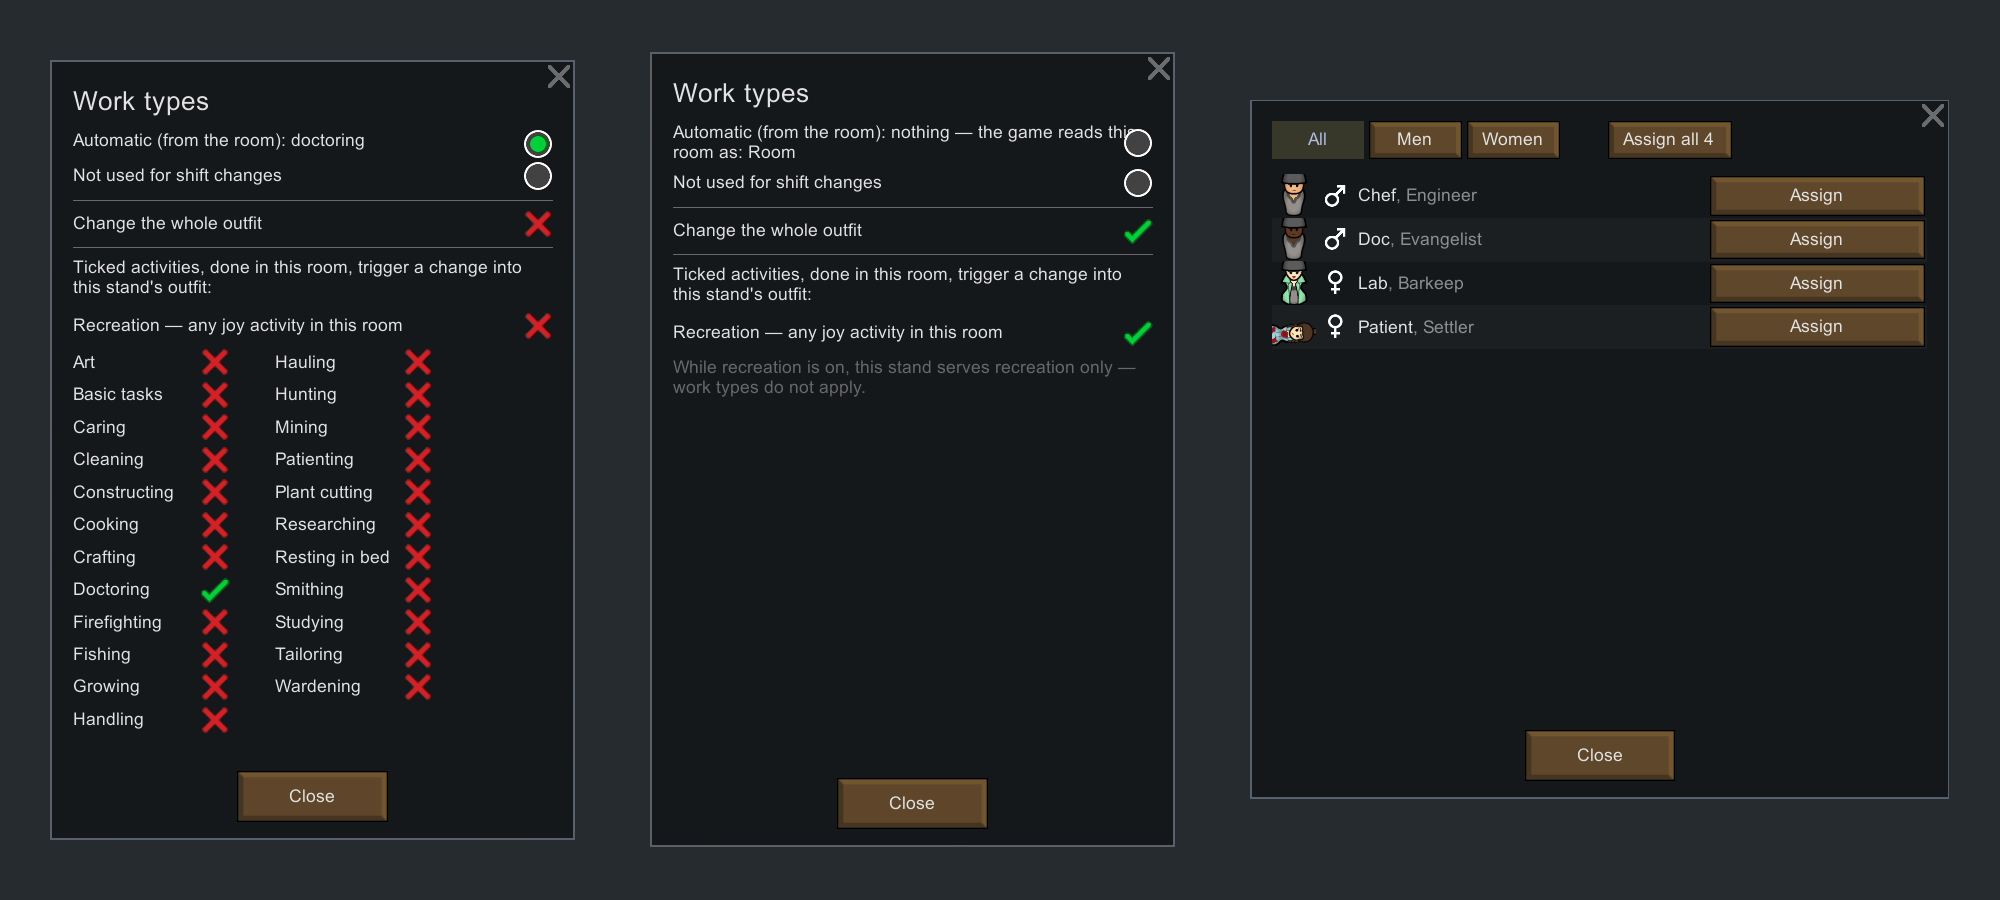
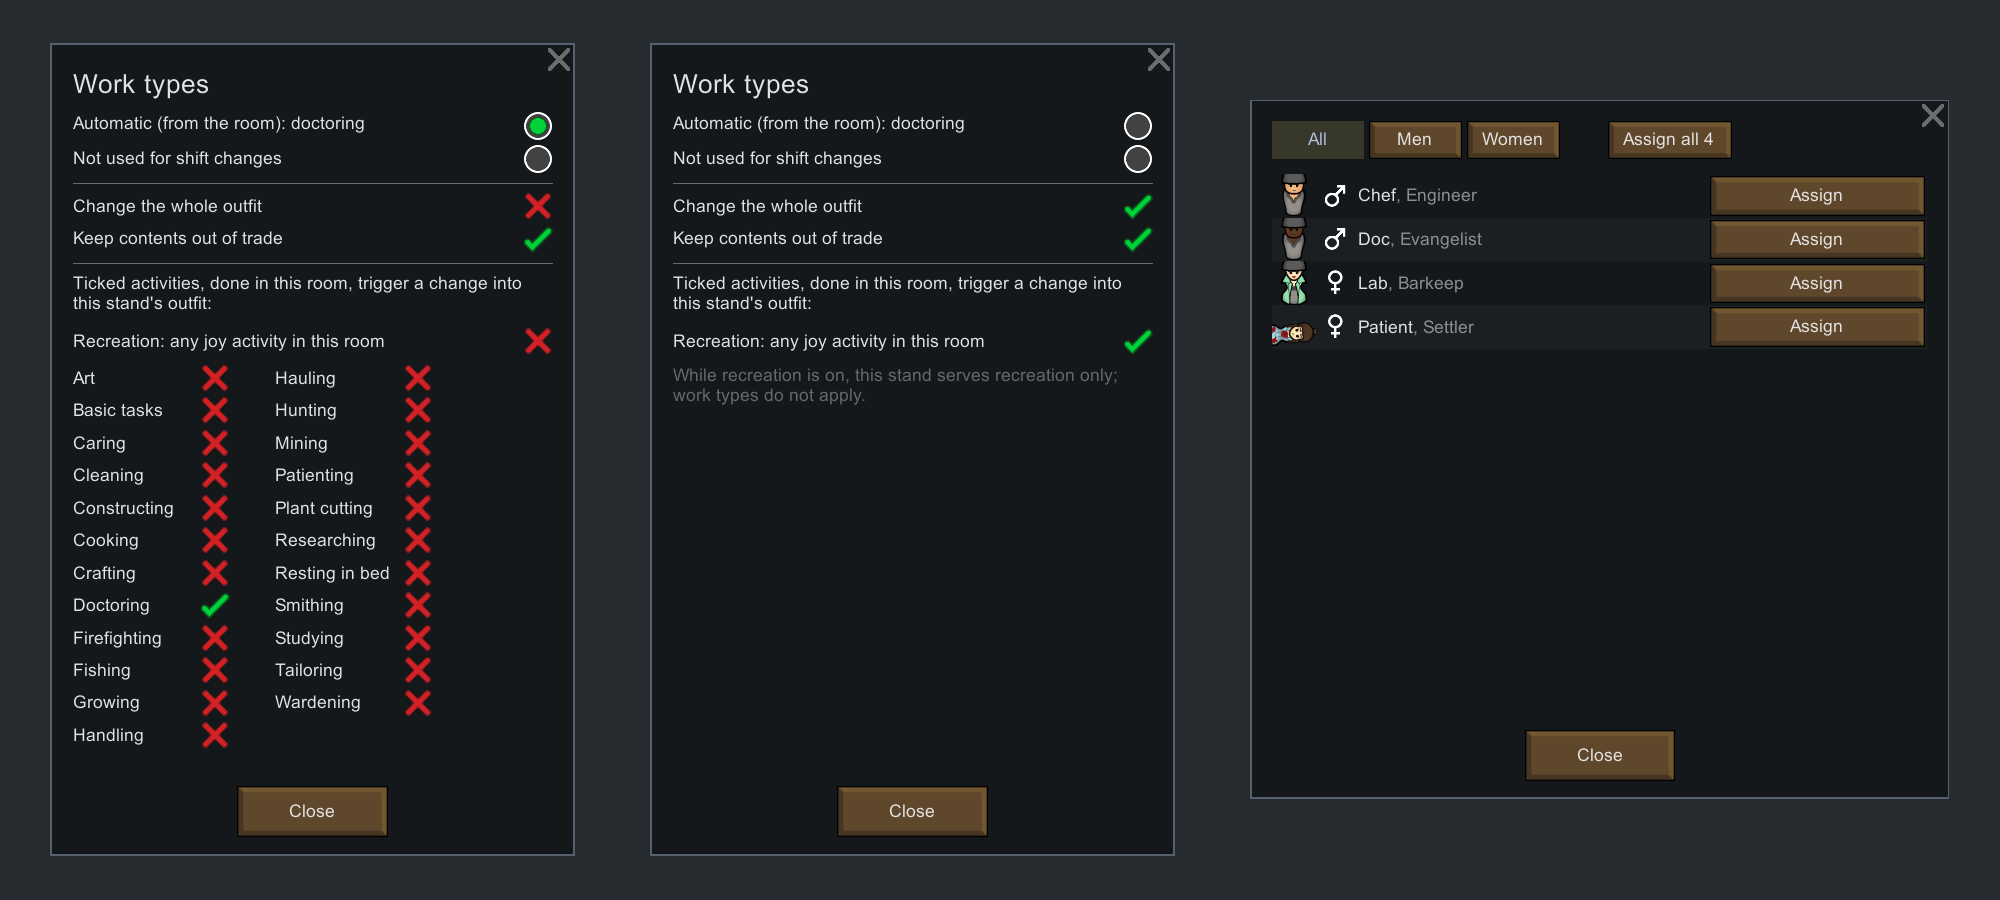
📝 Document the trade switch and re-shoot the controls card
Four surfaces carry the per-stand controls -- README, About.xml, the Steam BBCode and the keyed strings -- and all of them said "three". DESIGN gains the engine story beside the optimizer pause, and the allowRemovingItems table row now says what it does not reach. TESTING records the gap: no case builds a TradeDeal, so the postfix is verified in play only.

card-controls is re-shot for the new row. Both work-types panels crop to 525x813 now, and their being the SAME height is the correct result rather than a coincidence -- FitToMode sizes from InitialSize.y, which branches on ModeOnly and not on recreation. The previous take had them at 780 and 795, so that old recreation crop was 15 px loose. Width cross-checks the crop between panels; height never did.

The owner panel was not re-captured. Its dialog did not change, and the old card was composited at native resolution, so it was recovered from it at 699x699+1250+100 -- pixel-identical, not a re-encode of something scaled.

diff --git a/docs/DESIGN.md b/docs/DESIGN.md
@@ -178,7 +178,7 @@ order, which follows patch order, decides nothing.
 | Vanilla provides | Detail |
 |---|---|
 | Apparel storage with filters | storage-group support, contents displayed on the stand model |
-| `allowRemovingItems`, default false | one flag driving both `IHaulSource.HaulSourceEnabled` and `IApparelSource.ApparelSourceEnabled` (`:102-104`). This default is what stops haulers carting uniforms to stockpiles and stops `JobGiver_OptimizeApparel` raiding the stand |
+| `allowRemovingItems`, default false | one flag driving both `IHaulSource.HaulSourceEnabled` and `IApparelSource.ApparelSourceEnabled` (`:102-104`). This default is what stops haulers carting uniforms to stockpiles and stops `JobGiver_OptimizeApparel` raiding the stand. It does not reach traders — see [Withholding from trade](#withholding-from-trade) |
 | One outfit of capacity, structurally | `HasRoomForApparelOfDef` (`:332-342`) is not a count limit but a conflict check, refusing anything that cannot be worn together with what is already there |
 | Eviction | `TryDropThingsToMakeRoomForThingOfDef` (`:344-364`) drops conflicting contents on the floor nearby |
 
@@ -335,6 +335,61 @@ pre-pause sessions resume after load and the driver dyes whatever its queue name
 wherever it sits. Its `TryMakePreToilReservations` is failed — the vanilla-routine
 way to cancel — when the pawn is on shift or any queued garment is parked in a
 stand.
+
+## Withholding from trade
+
+Vanilla lists a stand's contents to traders by two routes, and neither is gated
+by anything a player would recognise as a lock.
+
+| Trader | Route |
+|---|---|
+| Orbital ship | `TradeUtility.AllLaunchableThingsForTrade` special-cases `Building_OutfitStand` and yields its `HeldItems` (`TradeUtility.cs:123`) |
+| Visiting caravan | `Pawn_TraderTracker.ColonyThingsWillingToBuy` walks `AllColonistBuildingsOfType<IHaulSource>()` and yields everything each one directly holds (`Pawn_TraderTracker.cs:123-134`) |
+
+`TradeDeal.InSellablePosition` then whitelists `ParentHolder is
+Building_OutfitStand`, so the unspawned held items sail through the position
+check (`TradeDeal.cs:85`). What ends up on the trader's list is the uniform in
+active rotation and, if anyone is on shift, their own clothes parked beside it.
+
+**`allowRemovingItems` is not in this story at all**, which is worth saying out
+loud, because the section above spends a page on that flag. The caravan lister
+keys on **type**: a stand whose `HaulSourceEnabled` is false is enumerated
+anyway, and `Patch_AllowRemovingToggle`'s enforcement — which does hold the
+optimizer off — buys nothing here. A player who read the removal toggle's
+tooltip, saw "the stand's contents are exposed", turned it off and concluded
+the stand was shut would be wrong.
+
+**One postfix on `TradeUtility.PlayerSellableNow` covers both routes.**
+`TradeDeal.AddAllTradeables` re-tests every candidate through it and drops the
+item on false (`TradeDeal.cs:46-50`) before it can become a `Tradeable` — not
+greyed out, absent. Patching the choke rather than the two collectors also picks
+up gift mode, which shares the deal. Every caller of that method in the engine
+is trade-side, so nothing outside a trade window notices; the def-level
+`EverPlayerSellable` that `StatWorker` and `Dialog_SellableItems` use is a
+different method and is untouched.
+
+Deliberately narrow: it withholds the kit from traders and does nothing else.
+Caravan packing, hauling, raider theft and the optimizer all run through other
+code, and a player who wants to sell a uniform unticks the box.
+
+**On by default, and old saves adopt it.** The exposure is invisible from the
+inspect pane, so a player cannot audit it by eye and will not go looking for a
+switch they do not know they need — the same reasoning that made the removal
+flag self-enforcing rather than merely documented. `Scribe_Values` writes
+nothing when a value matches its default and hands the default back when the
+node is absent (`Scribe_Values.cs:70-78,88`), so a save predating the flag loads
+protected, and the only thing ever written is a deliberate opt-out.
+
+Keyed on the **declaration**, like the removal-flag disable. `BlocksTrade` is
+`!excluded && withholdFromTrade`, so a stand set to "Not used for shift changes"
+is tradeable whatever the flag says — and the dialog's `ModeOnly` return already
+hides the row for exactly those stands. One condition, not two that can drift
+apart.
+
+The failure mode is vanilla. A postfix on a public static that does nothing
+unless it finds our comp: if Ludeon moves the method, the patch fails to apply,
+Harmony logs it, and stands go back to being tradeable, which is where they
+started.
 
 ## Change back
 
@@ -507,6 +562,11 @@ was not designed; it fell out of reading what vanilla declares about its own job
   Deliberately not a `GameComponent`: a component writes its class name into every
   save, costing players a one-time load error after uninstalling. The guard has
   zero save footprint.
+- **One scribed flag defaults to `true`.** `withholdFromTrade` is the only comp
+  field whose default is not the zero value, and that is what carries the trade
+  protection into saves that predate it: an absent node means on. The cost is
+  the mirror image — an opt-out is the only state that gets written, so a stand
+  deliberately left tradeable is the one relying on its node to survive.
 - **Uninstalling is clean by construction.** Saved state is comp fields inside
   vanilla buildings' nodes, skipped silently when unrecognized, plus vanilla's own
   forced-apparel flags. Removing the mod reverts every stand to plain vanilla

diff --git a/media/README.md b/media/README.md
@@ -106,6 +106,29 @@ dialog in its two modes — work on the left (automatic, resolved to doctoring
 from the room, grid populated) and recreation in the middle (grid hidden,
 exclusivity note showing) — then the owner list on the right.
 
+**Re-shot 2026-08-24**, when the work-types dialog gained "Keep contents out
+of trade" under "Change the whole outfit", inside its separator.
+`HeaderAllowance` went 226 → 252 and the work panel grew by exactly that one
+`RowHeight`, 780 → 813 px, which is 26 logical px at this machine's 1.25× UI
+scale. Widths did not move, so the horizontal offsets carried over untouched.
+
+**Both work-types panels are now the same height, and that is correct rather
+than lucky.** `FitToMode` sizes the window from `InitialSize.y`, which branches
+on `ModeOnly` — the excluded stand — and not on recreation, so the two modes
+have always been the same window. The previous take had them at 780 and 795,
+which means the old recreation crop was 15 px loose. Width cross-checks the
+crop; height never did, and that is what the gap cost. Worth a glance at both
+numbers on the next take, not just the 525.
+
+**The owner panel was not re-captured.** Its dialog did not change — the only
+commit touching that path since the last card is the reinstall fix, which adds
+`CanSetUninstallAssignedPawn` and draws nothing — so it was recovered from the
+previous card instead. That composite was at native resolution, so what comes
+back out is pixel-identical to the original capture rather than a re-encode of
+something scaled. Confirm a recovery landed by sampling the crop's corners and
+edge midpoints: all should read `srgb(87,97,110)`, the window border, with no
+`srgb(38,43,48)` card background leaking in.
+
 The owner list had been cut from an earlier version of this card, when it was
 a bare assign list of three pawns that taught nothing. It earned its place back
 once it grew the gender column, the filter tabs and Assign all, which are the
@@ -125,19 +148,24 @@ wide when cropped to the border, which is the check that the crop landed on the
 same feature in each.
 
 ```bash
-# panels, cropped to their own window borders
-magick work.png    -crop 525x780+3+4  +repage p-work.png
-magick rec.png     -crop 525x795+5+6  +repage p-rec.png
-magick owners.png  -crop 699x699+6+10 +repage p-owners.png
+# panels, cropped to their own window borders (2026-08-24 take)
+magick work.png -crop 525x813+6+6 +repage p-work.png
+magick rec.png  -crop 525x813+4+8 +repage p-rec.png
+
+# owners recovered from the PREVIOUS card, not re-captured. Must run before
+# the composite below, which overwrites the file it reads from.
+magick cards/card-controls.png -crop 699x699+1250+100 +repage p-owners.png
 
 magick -size 2000x900 xc:"srgb(38,43,48)" \
-  p-work.png   -geometry +50+60   -composite \
-  p-rec.png    -geometry +650+52  -composite \
+  p-work.png   -geometry +50+43   -composite \
+  p-rec.png    -geometry +650+43  -composite \
   p-owners.png -geometry +1250+100 -composite \
   -strip -define png:compression-level=9 cards/card-controls.png
 ```
 
-The offsets are per-capture; re-measure them for a new take. The owner panel is
+The crop offsets are per-capture; re-measure them for a new take. The vertical
+composite offsets are not free parameters — every panel is centred, so each is
+`(900 - height) / 2`, which is where +43 and +100 come from. The owner panel is
 square (699×699) because the dialog's `InitialSize` is 560×560 and this machine
 renders the UI at about 1.25×.
 

diff --git a/README.md b/README.md
@@ -74,6 +74,17 @@ back, use the eject button beside it in the Contents tab, which drops it next
 to the stand. To decommission a stand and let haulers empty it, set "Not used
 for shift changes" first; the toggle unlocks with it and stays unlocked.
 
+**"Keep contents out of trade" is on by default.** Traders will otherwise buy
+anything sitting on an outfit stand: the uniform, and the owner's own clothes
+parked there while they're on shift. That's vanilla behaviour, it reaches both
+caravans at the gate and ships in orbit, and nothing else about the stand
+prevents it. "Allow removing items" doesn't cover trade, and neither does an
+assigned owner. With this on, the stand's contents never reach a trade window,
+and nothing else changes: colonists still stock it, shift changes still work,
+and you can still load the kit into a caravan yourself. Turn it off for a stand
+you keep as a shop shelf; a stand set to "Not used for shift changes" is
+tradeable either way.
+
 A stand that is dressing anyone says so in its inspect pane: what it dresses
 for, who owns or is currently wearing it, and whether it's empty. A stand in a
 room with no role says nothing at all, and behaves like ordinary furniture.

diff --git a/docs/TESTING.md b/docs/TESTING.md
@@ -172,6 +172,12 @@ green log out of a suite that checks nothing.
   about a mod that was not installed.
 - **UI.** No case draws a gizmo, opens the work-type dialog, or reads an inspect
   string.
+- **Trade.** No case opens a trade session or builds a `TradeDeal`, so the
+  withhold-from-trade postfix is verified in play only. A moved
+  `PlayerSellableNow` is at least loud, since Harmony reports a target it cannot
+  find on startup — but nothing pins the two collectors that reach stand
+  contents in the first place, so a route quietly rerouted around the deal would
+  take the protection with it and say nothing.
 - **Pooling on and off, the optimizer pause, the recolor guard, `SwapPlan`'s
   rollback, the change-back latch, the retry cooldown.** No cases yet.
 
